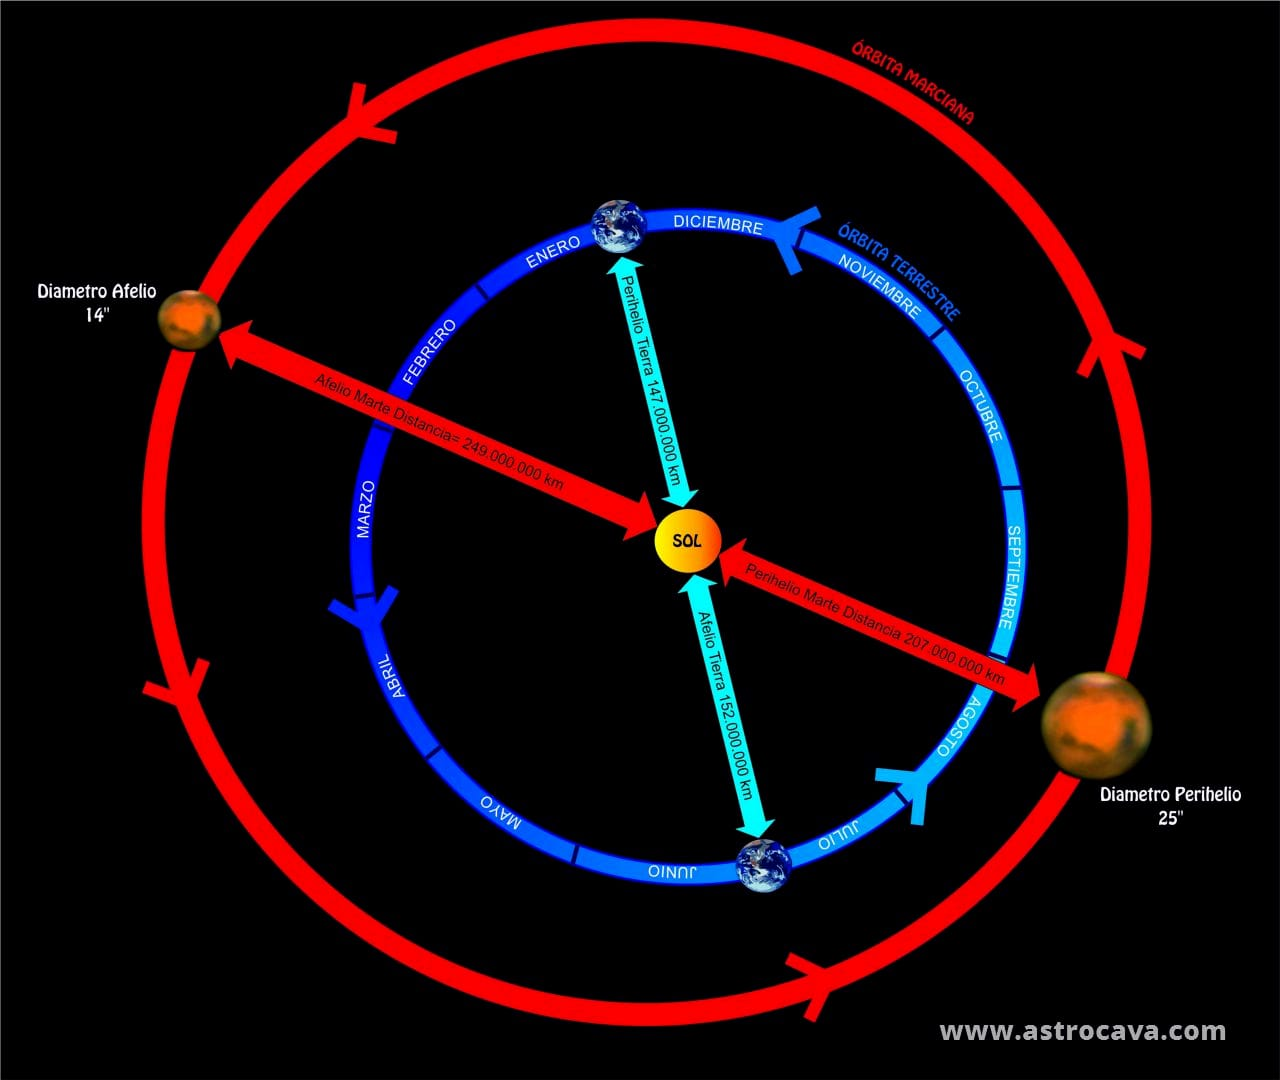
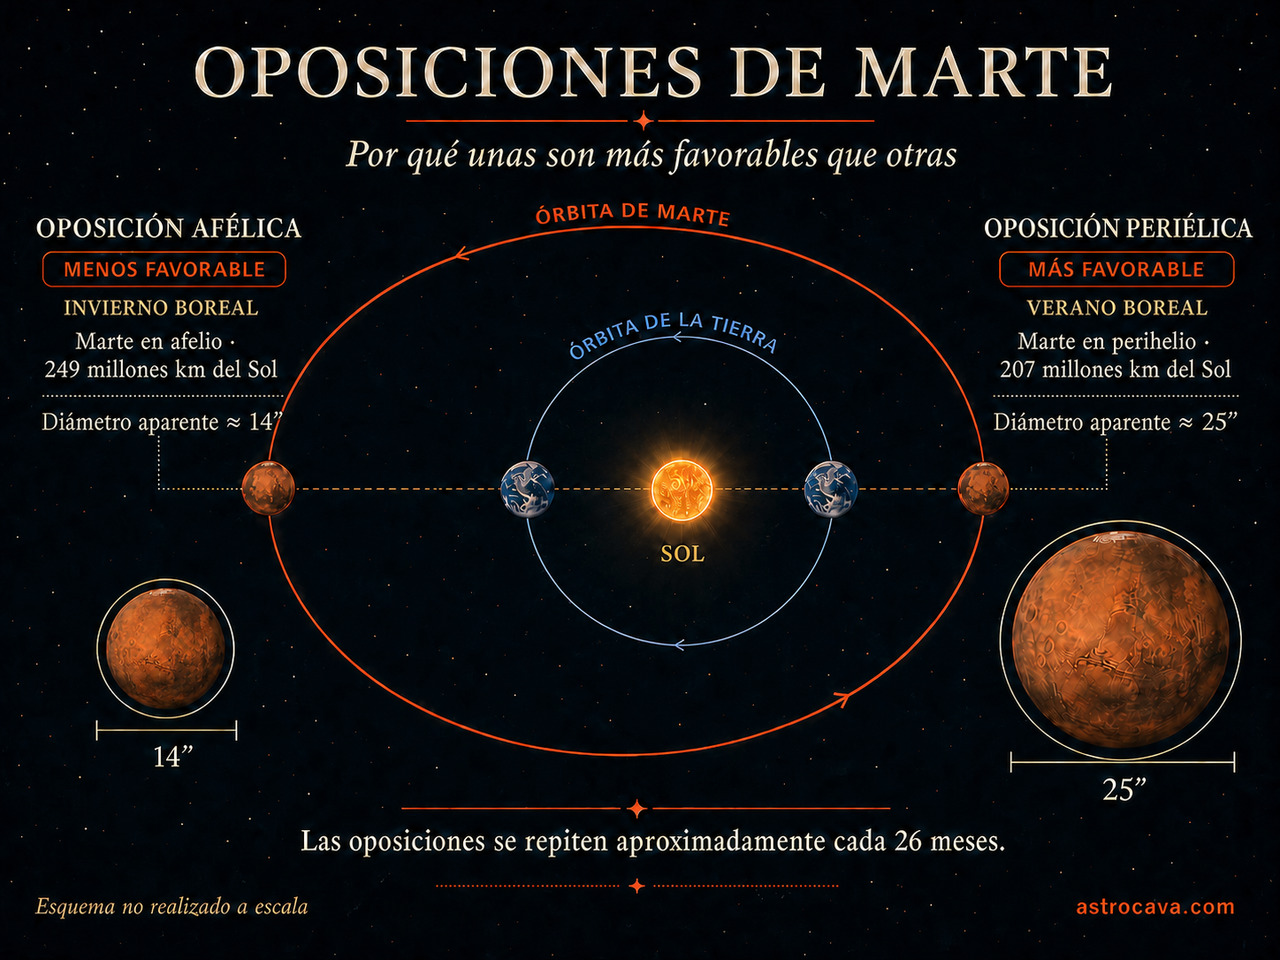
Redesign Mars opposition infographic

diff --git a/src/content/entries/el-planeta-marte.md b/src/content/entries/el-planeta-marte.md
@@ -24,4 +24,4 @@ twitter_title: ''
 twitter_description: ''
 twitter_image: /content/images/2024/09/Marte_20221202-2210_3-2.jpg
 ---
-<p>Si eres aficionado a la observación del cielo nocturno, entonces es probable que hayas visto alguna vez a Marte, el brillante punto rojo que aparece en el cielo durante ciertas épocas del año. </p><h2 id="%C2%BFqu%C3%A9-detalles-podemos-ver-en-marte-a-trav%C3%A9s-de-un-telescopio">¿Qué detalles podemos ver en Marte a través de un telescopio?</h2><p>Marte, el planeta rojo, denominado así por su color característico evidente a simple vista a causa de los óxidos de hierro en su superficie, es uno de los planetas rocosos del <a href="/galeria/sistema-solar/" rel="noreferrer">Sistema Solar</a> ( junto con <strong>Mercurio</strong>, <strong>Venus</strong> y la <strong>Tierra</strong>) y el planeta exterior más cercano a nosotros.</p><p>A simple vista Marte aparece como una «estrella» que no titila de tintes rojizos y el cambio de luminosidad depende, además de la fase, de la cercanía del planeta a la Tierra. </p><h3 id="caracter%C3%ADsticas-superficiales">Características superficiales</h3><p>Al contrario de Venus, su atmósfera más fina y transparente nos permite observar su superficie, formada a grandes rasgos por zonas oscuras que destacan sobre zonas más claras de color anaranjado. También es posible observar los casquetes polares y su evolución conforme avanza la estación en el planeta. Incluso podemos ver fenómenos atmosféricos como nubes y tormentas de polvo.</p><figure class="kg-card kg-image-card kg-card-hascaption"><img src="/content/images/2024/06/marte-regiones-syrtis-hellas-polar.jpg" class="kg-image" alt="Regiones de Marte: Syrtis Major, Sinus Meridiani, Sinus Sabaeus, Hellas y casquete polar." loading="lazy" width="640" height="480" srcset="/content/images/size/w600/2024/06/marte-regiones-syrtis-hellas-polar.jpg 600w, /content/images/2024/06/marte-regiones-syrtis-hellas-polar.jpg 640w"><figcaption><span style="white-space: pre-wrap;">Regiones de Marte: Syrtis Major, Sinus Meridiani, Sinus Sabaeus, Hellas y casquete polar.</span></figcaption></figure><figure class="kg-card kg-image-card kg-card-hascaption"><img src="/content/images/2024/06/marte-regiones-arabia-chryse-acidalium-erythraeum.jpg" class="kg-image" alt="Regiones de Marte: Arabia, Chryse, Mares Acidalium y Erythraeum" loading="lazy" width="640" height="480" srcset="/content/images/size/w600/2024/06/marte-regiones-arabia-chryse-acidalium-erythraeum.jpg 600w, /content/images/2024/06/marte-regiones-arabia-chryse-acidalium-erythraeum.jpg 640w"><figcaption><span style="white-space: pre-wrap;">Regiones de Marte: Arabia, Chryse, Mares Acidalium y Erythraeum</span></figcaption></figure><h3 id="cambios-de-fase">Cambios de fase</h3><p>Marte presenta fases, como puede observarse en las siguientes imágenes, sin embargo no son muy pronunciadas y no podemos distinguirlas a simple vista. </p><p>En el punto que Marte tiene una fase más pronunciada se asemeja a la imagen que nos presenta la Luna 3 o 4 días antes de la luna llena. Nótese también el cambio en la extensión del casquete polar sur en poco más de un mes.</p><figure class="kg-card kg-image-card kg-card-hascaption"><img src="/content/images/2024/06/marte-fases-cambios-region-polar.jpg" class="kg-image" alt="Marte presenta fases y es posible observar cambios estacionales. El tamaño del casquete polar también varía." loading="lazy" width="640" height="480" srcset="/content/images/size/w600/2024/06/marte-fases-cambios-region-polar.jpg 600w, /content/images/2024/06/marte-fases-cambios-region-polar.jpg 640w"><figcaption><span style="white-space: pre-wrap;">Marte presenta fases y es posible observar cambios estacionales. El tamaño del casquete polar también varía.</span></figcaption></figure><h3 id="fen%C3%B3menos-atmosf%C3%A9ricos-y-cambios-estacionales">Fenómenos atmosféricos y cambios estacionales</h3><p>A diferencia de la Tierra, donde el clima está influenciado principalmente por la presencia de agua y la actividad de los océanos, el clima en Marte está determinado principalmente por la interacción entre la atmósfera y la superficie del planeta. </p><p>La atmósfera de Marte es delgada y seca, con una presencia muy baja de agua en forma de vapor de agua. Esto hace que las temperaturas en Marte sean extremadamente bajas, con promedios que rara vez superan los 0 grados Celsius. </p><p>Una de las características de Marte más interesantes es que podemos observar su meteorología: <strong>nubes</strong>, <strong>tormentas de arena</strong>... y la variación de sus <strong>casquetes polares</strong>, formados principalmente por agua y dióxido de carbono (CO2) congelados, que es el que provoca su variación anual.</p><figure class="kg-card kg-image-card kg-card-hascaption"><img src="/content/images/2024/06/marte-nubes.jpg" class="kg-image" alt="En Marte se pueden observar las nubes de su atmósfera." loading="lazy" width="640" height="480" srcset="/content/images/size/w600/2024/06/marte-nubes.jpg 600w, /content/images/2024/06/marte-nubes.jpg 640w"><figcaption><span style="white-space: pre-wrap;">En Marte se pueden observar las nubes de su atmósfera.</span></figcaption></figure><h2 id="%C2%BFcu%C3%A1les-son-las-mejores-oportunidades-para-observar-marte">¿Cuáles son las mejores oportunidades para observar Marte?</h2><p>Las oposiciones de Marte se producen cada 26 meses aproximadamente y debido a la gran excentricidad que presenta la órbita marciana (la de la Tierra es casi circular), hay mucha diferencia entre una oposición favorable y una desfavorable, al contrario que <a href="/observacion/el-planeta-jupiter/" rel="noreferrer">Júpiter</a> que presenta un tamaño aparente muy similar.</p><p>El diámetro aparente puede ser de 14” como en la oposición de 2010 o pasar a 25” como en la oposición de 2003 . </p><p>En general son más favorables aquellas oposiciones que ocurren en verano que las que se producen en invierno porque es la zona donde las órbitas de ambos planetas están más cercanas por estar Marte cerca del perihelio (distancia más cercana al sol).  </p><figure class="kg-card kg-image-card kg-card-hascaption"><img src="/content/images/2024/06/marte-mejores-oposiciones.jpg" class="kg-image" alt="Las mejores oposiciones de Marte se producen en verano." loading="lazy" width="1280" height="1080" srcset="/content/images/size/w600/2024/06/marte-mejores-oposiciones.jpg 600w, /content/images/size/w1000/2024/06/marte-mejores-oposiciones.jpg 1000w, /content/images/2024/06/marte-mejores-oposiciones.jpg 1280w" sizes="(min-width: 720px) 720px"><figcaption><span style="white-space: pre-wrap;">Las mejores oposiciones de Marte se producen en verano.</span></figcaption></figure><p>Enlace a las capturas realizadas en pasadas oposiciones:</p><ul><li><a href="/galeria/sistema-solar/marte-oposicion-de-agosto-de-2003/" rel="noreferrer">Marte - Oposición de agosto de 2003</a></li><li><a href="/galeria/sistema-solar/marte-oposicion-de-diciembre-de-2007/" rel="noreferrer">Marte - Oposición de diciembre de 2007</a></li><li><a href="/galeria/sistema-solar/marte-oposicion-de-diciembre-de-2022-2/" rel="noreferrer">Marte - Oposición de diciembre de 2022</a></li></ul>
+<p>Si eres aficionado a la observación del cielo nocturno, entonces es probable que hayas visto alguna vez a Marte, el brillante punto rojo que aparece en el cielo durante ciertas épocas del año. </p><h2 id="%C2%BFqu%C3%A9-detalles-podemos-ver-en-marte-a-trav%C3%A9s-de-un-telescopio">¿Qué detalles podemos ver en Marte a través de un telescopio?</h2><p>Marte, el planeta rojo, denominado así por su color característico evidente a simple vista a causa de los óxidos de hierro en su superficie, es uno de los planetas rocosos del <a href="/galeria/sistema-solar/" rel="noreferrer">Sistema Solar</a> ( junto con <strong>Mercurio</strong>, <strong>Venus</strong> y la <strong>Tierra</strong>) y el planeta exterior más cercano a nosotros.</p><p>A simple vista Marte aparece como una «estrella» que no titila de tintes rojizos y el cambio de luminosidad depende, además de la fase, de la cercanía del planeta a la Tierra. </p><h3 id="caracter%C3%ADsticas-superficiales">Características superficiales</h3><p>Al contrario de Venus, su atmósfera más fina y transparente nos permite observar su superficie, formada a grandes rasgos por zonas oscuras que destacan sobre zonas más claras de color anaranjado. También es posible observar los casquetes polares y su evolución conforme avanza la estación en el planeta. Incluso podemos ver fenómenos atmosféricos como nubes y tormentas de polvo.</p><figure class="kg-card kg-image-card kg-card-hascaption"><img src="/content/images/2024/06/marte-regiones-syrtis-hellas-polar.jpg" class="kg-image" alt="Regiones de Marte: Syrtis Major, Sinus Meridiani, Sinus Sabaeus, Hellas y casquete polar." loading="lazy" width="640" height="480" srcset="/content/images/size/w600/2024/06/marte-regiones-syrtis-hellas-polar.jpg 600w, /content/images/2024/06/marte-regiones-syrtis-hellas-polar.jpg 640w"><figcaption><span style="white-space: pre-wrap;">Regiones de Marte: Syrtis Major, Sinus Meridiani, Sinus Sabaeus, Hellas y casquete polar.</span></figcaption></figure><figure class="kg-card kg-image-card kg-card-hascaption"><img src="/content/images/2024/06/marte-regiones-arabia-chryse-acidalium-erythraeum.jpg" class="kg-image" alt="Regiones de Marte: Arabia, Chryse, Mares Acidalium y Erythraeum" loading="lazy" width="640" height="480" srcset="/content/images/size/w600/2024/06/marte-regiones-arabia-chryse-acidalium-erythraeum.jpg 600w, /content/images/2024/06/marte-regiones-arabia-chryse-acidalium-erythraeum.jpg 640w"><figcaption><span style="white-space: pre-wrap;">Regiones de Marte: Arabia, Chryse, Mares Acidalium y Erythraeum</span></figcaption></figure><h3 id="cambios-de-fase">Cambios de fase</h3><p>Marte presenta fases, como puede observarse en las siguientes imágenes, sin embargo no son muy pronunciadas y no podemos distinguirlas a simple vista. </p><p>En el punto que Marte tiene una fase más pronunciada se asemeja a la imagen que nos presenta la Luna 3 o 4 días antes de la luna llena. Nótese también el cambio en la extensión del casquete polar sur en poco más de un mes.</p><figure class="kg-card kg-image-card kg-card-hascaption"><img src="/content/images/2024/06/marte-fases-cambios-region-polar.jpg" class="kg-image" alt="Marte presenta fases y es posible observar cambios estacionales. El tamaño del casquete polar también varía." loading="lazy" width="640" height="480" srcset="/content/images/size/w600/2024/06/marte-fases-cambios-region-polar.jpg 600w, /content/images/2024/06/marte-fases-cambios-region-polar.jpg 640w"><figcaption><span style="white-space: pre-wrap;">Marte presenta fases y es posible observar cambios estacionales. El tamaño del casquete polar también varía.</span></figcaption></figure><h3 id="fen%C3%B3menos-atmosf%C3%A9ricos-y-cambios-estacionales">Fenómenos atmosféricos y cambios estacionales</h3><p>A diferencia de la Tierra, donde el clima está influenciado principalmente por la presencia de agua y la actividad de los océanos, el clima en Marte está determinado principalmente por la interacción entre la atmósfera y la superficie del planeta. </p><p>La atmósfera de Marte es delgada y seca, con una presencia muy baja de agua en forma de vapor de agua. Esto hace que las temperaturas en Marte sean extremadamente bajas, con promedios que rara vez superan los 0 grados Celsius. </p><p>Una de las características de Marte más interesantes es que podemos observar su meteorología: <strong>nubes</strong>, <strong>tormentas de arena</strong>... y la variación de sus <strong>casquetes polares</strong>, formados principalmente por agua y dióxido de carbono (CO2) congelados, que es el que provoca su variación anual.</p><figure class="kg-card kg-image-card kg-card-hascaption"><img src="/content/images/2024/06/marte-nubes.jpg" class="kg-image" alt="En Marte se pueden observar las nubes de su atmósfera." loading="lazy" width="640" height="480" srcset="/content/images/size/w600/2024/06/marte-nubes.jpg 600w, /content/images/2024/06/marte-nubes.jpg 640w"><figcaption><span style="white-space: pre-wrap;">En Marte se pueden observar las nubes de su atmósfera.</span></figcaption></figure><h2 id="%C2%BFcu%C3%A1les-son-las-mejores-oportunidades-para-observar-marte">¿Cuáles son las mejores oportunidades para observar Marte?</h2><p>Las oposiciones de Marte se producen cada 26 meses aproximadamente y debido a la gran excentricidad que presenta la órbita marciana (la de la Tierra es casi circular), hay mucha diferencia entre una oposición favorable y una desfavorable, al contrario que <a href="/observacion/el-planeta-jupiter/" rel="noreferrer">Júpiter</a> que presenta un tamaño aparente muy similar.</p><p>El diámetro aparente puede ser de 14” como en la oposición de 2010 o pasar a 25” como en la oposición de 2003 . </p><p>En general son más favorables aquellas oposiciones que ocurren en verano que las que se producen en invierno porque es la zona donde las órbitas de ambos planetas están más cercanas por estar Marte cerca del perihelio (distancia más cercana al sol).  </p><figure class="kg-card kg-image-card kg-card-hascaption"><img src="/content/images/2024/06/marte-mejores-oposiciones.jpg" class="kg-image" alt="Comparación entre una oposición afélica y una periélica de Marte." loading="lazy" width="1280" height="960" srcset="/content/images/size/w600/2024/06/marte-mejores-oposiciones.jpg 600w, /content/images/size/w1000/2024/06/marte-mejores-oposiciones.jpg 1000w, /content/images/2024/06/marte-mejores-oposiciones.jpg 1280w" sizes="(min-width: 720px) 720px"><figcaption><span style="white-space: pre-wrap;">En las oposiciones periélicas Marte alcanza mayor tamaño aparente que en las afélicas.</span></figcaption></figure><p>Enlace a las capturas realizadas en pasadas oposiciones:</p><ul><li><a href="/galeria/sistema-solar/marte-oposicion-de-agosto-de-2003/" rel="noreferrer">Marte - Oposición de agosto de 2003</a></li><li><a href="/galeria/sistema-solar/marte-oposicion-de-diciembre-de-2007/" rel="noreferrer">Marte - Oposición de diciembre de 2007</a></li><li><a href="/galeria/sistema-solar/marte-oposicion-de-diciembre-de-2022-2/" rel="noreferrer">Marte - Oposición de diciembre de 2022</a></li></ul>

diff --git a/ATTRIBUTIONS.md b/ATTRIBUTIONS.md
@@ -1,6 +1,6 @@
 # Atribuciones y procedencia de recursos
 
-Actualizado: 2026-07-12
+Actualizado: 2026-08-09
 
 Este registro ofrece la lectura humana de las atribuciones que requieren más contexto. El inventario completo y vinculante del árbol actual está en [`RIGHTS_MANIFEST.json`](RIGHTS_MANIFEST.json): 272 familias y 634 archivos, todos con clasificación publicable, rutas, tamaños y SHA-256 exactos. `check:rights` rechaza cualquier imagen ausente, extra, modificada o con estado incierto.
 
@@ -18,6 +18,7 @@ El manifiesto identifica de forma exhaustiva las 244 familias propias bajo esta 
 | `/content/images/2024/04/algol-constelaciones-anotada.jpg` y variantes `size/w600`, `size/w1000`, `size/w1600` | «Algol y la variabilidad de las estrellas» | `ASTROCAVA-ORIGINAL`; CC BY 4.0 | Anotación editorial y variantes redimensionadas | 2026-07-11 |
 | `/content/images/2024/04/Algol-y-estrellas-comparacion.jpg` y variantes `size/w600`, `size/w1000`, `size/w1600` | «Algol y la variabilidad de las estrellas» | `ASTROCAVA-ORIGINAL`; CC BY 4.0 | Composición editorial y variantes redimensionadas | 2026-07-11 |
 | `/content/images/2024/04/astronomia-paleolitico-pintura-rupestre-lascaux-XIII.jpg` y variantes `size/w600`, `size/w1000`, `size/w1600` | «Astronomía en el Paleolítico» | `ASTROCAVA-ORIGINAL`; CC BY 4.0 | Esquema contemporáneo, no fotografía ni calco | 2026-07-11 |
+| `/content/images/2024/06/marte-mejores-oposiciones.jpg` y variantes `size/w600`, `size/w1000` | «El planeta Marte» | `ASTROCAVA-ORIGINAL`; CC BY 4.0 | Infografía rediseñada con OpenAI ImageGen a partir del esquema propio anterior, revisión editorial de la geometría orbital, rotulación estacional boreal y variantes redimensionadas | 2026-08-09 |
 
 ## British Museum
 
@@ -101,4 +102,4 @@ Crédito: **Ilustración generada con Midjourney por Sergio Cava**. La [CC BY 4.
 | Dominio público | 7 | 15 |
 | **Total** | **272** | **634** |
 
[2 lines of base64/hex data omitted]
